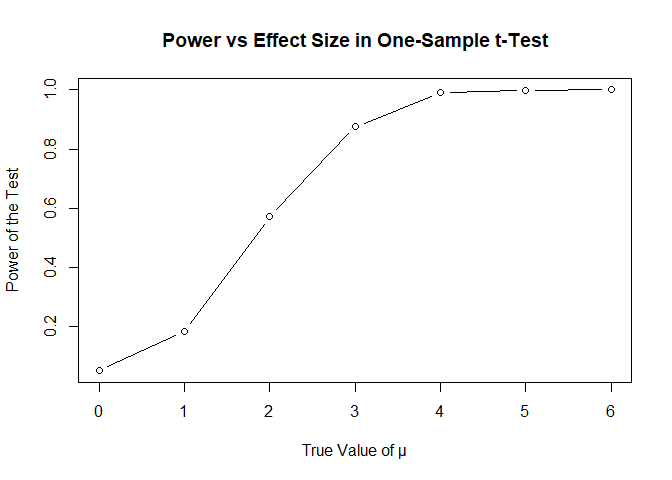
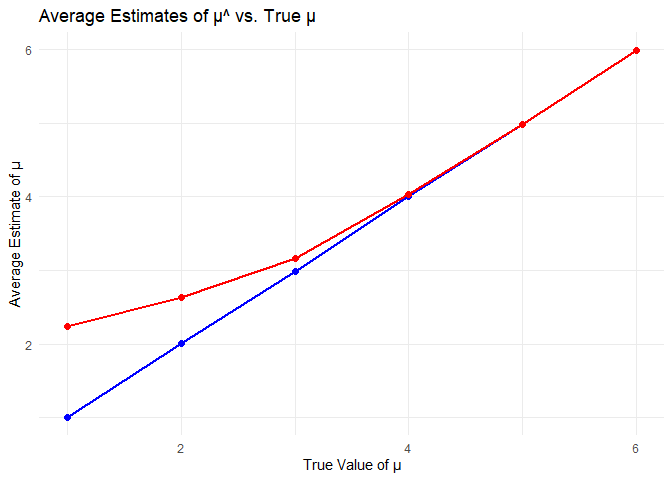
adding some descriptions

diff --git a/p8105_hw5_rl3401.md b/p8105_hw5_rl3401.md
@@ -19,6 +19,12 @@ library(tidyverse)
     ## ℹ Use the conflicted package (<http://conflicted.r-lib.org/>) to force all conflicts to become errors
 
 ``` r
+library(broom)
+```
+
+## Problem 1
+
+``` r
 homicides_df = read_csv("data/homicide-data.csv") 
 ```
 
@@ -115,6 +121,9 @@ homicide_summary|>
 | Tulsa, OK          |             583 |                193 |
 | Washington, DC     |            1345 |                589 |
 
+For the city of Baltimore, MD, use the prop.test function to estimate
+the proportion of homicides that are unsolved:
+
 ``` r
 baltimore_df =
   homicide_summary|>
@@ -134,6 +143,9 @@ baltimore_prop_test |>
 |----------:|----------:|----------:|
 | 0.6455607 | 0.6275625 | 0.6631599 |
 
+The estimated proportion is 0.646. The 95% confidence interval is (
+0.628 , 0.663 )
+
 ``` r
 library(tidyverse)
 perform_prop_test <- function(unsolved, total) {
@@ -142,7 +154,7 @@ perform_prop_test <- function(unsolved, total) {
   return(tidy_result)
 }
 
-# Step 2: Apply the function to each city
+
 all_cities_prop_test = homicide_summary |>
   mutate(prop_test_results = map2(unsolved_homicides, total_homicides, ~perform_prop_test(.x, .y))) |>
   unnest(prop_test_results) |>
@@ -213,6 +225,8 @@ all_cities_prop_test|>
 | Tulsa, OK          | 0.3310463 | 0.2932349 | 0.3711192 |
 | Washington, DC     | 0.4379182 | 0.4112495 | 0.4649455 |
 
+The plot of estimated proportion of unsolved Homicides by City
+
 ``` r
 ggplot(all_cities_prop_test, aes(x = reorder(city_state, estimate), y = estimate)) +
   geom_point() +
@@ -227,152 +241,18 @@ ggplot(all_cities_prop_test, aes(x = reorder(city_state, estimate), y = estimate
 
 ## Problem 2
 
+Start with a dataframe containing all file names;iterate over file names
+and read in data for each subject and saving the result as a new
+variable in the dataframe.
+
 ``` r
 full_df=
   tibble(path = list.files("data/hw5_data",full.names = TRUE))|>
   mutate(data = map(path, read_csv))
 ```
 
-    ## Rows: 1 Columns: 8
-    ## ── Column specification ────────────────────────────────────────────────────────
-    ## Delimiter: ","
-    ## dbl (8): week_1, week_2, week_3, week_4, week_5, week_6, week_7, week_8
-    ## 
-    ## ℹ Use `spec()` to retrieve the full column specification for this data.
-    ## ℹ Specify the column types or set `show_col_types = FALSE` to quiet this message.
-    ## Rows: 1 Columns: 8
-    ## ── Column specification ────────────────────────────────────────────────────────
-    ## Delimiter: ","
-    ## dbl (8): week_1, week_2, week_3, week_4, week_5, week_6, week_7, week_8
-    ## 
-    ## ℹ Use `spec()` to retrieve the full column specification for this data.
-    ## ℹ Specify the column types or set `show_col_types = FALSE` to quiet this message.
-    ## Rows: 1 Columns: 8
-    ## ── Column specification ────────────────────────────────────────────────────────
-    ## Delimiter: ","
-    ## dbl (8): week_1, week_2, week_3, week_4, week_5, week_6, week_7, week_8
-    ## 
-    ## ℹ Use `spec()` to retrieve the full column specification for this data.
-    ## ℹ Specify the column types or set `show_col_types = FALSE` to quiet this message.
-    ## Rows: 1 Columns: 8
-    ## ── Column specification ────────────────────────────────────────────────────────
-    ## Delimiter: ","
-    ## dbl (8): week_1, week_2, week_3, week_4, week_5, week_6, week_7, week_8
-    ## 
-    ## ℹ Use `spec()` to retrieve the full column specification for this data.
-    ## ℹ Specify the column types or set `show_col_types = FALSE` to quiet this message.
-    ## Rows: 1 Columns: 8
-    ## ── Column specification ────────────────────────────────────────────────────────
-    ## Delimiter: ","
-    ## dbl (8): week_1, week_2, week_3, week_4, week_5, week_6, week_7, week_8
-    ## 
-    ## ℹ Use `spec()` to retrieve the full column specification for this data.
-    ## ℹ Specify the column types or set `show_col_types = FALSE` to quiet this message.
-    ## Rows: 1 Columns: 8
-    ## ── Column specification ────────────────────────────────────────────────────────
-    ## Delimiter: ","
-    ## dbl (8): week_1, week_2, week_3, week_4, week_5, week_6, week_7, week_8
-    ## 
-    ## ℹ Use `spec()` to retrieve the full column specification for this data.
-    ## ℹ Specify the column types or set `show_col_types = FALSE` to quiet this message.
-    ## Rows: 1 Columns: 8
-    ## ── Column specification ────────────────────────────────────────────────────────
-    ## Delimiter: ","
-    ## dbl (8): week_1, week_2, week_3, week_4, week_5, week_6, week_7, week_8
-    ## 
-    ## ℹ Use `spec()` to retrieve the full column specification for this data.
-    ## ℹ Specify the column types or set `show_col_types = FALSE` to quiet this message.
-    ## Rows: 1 Columns: 8
-    ## ── Column specification ────────────────────────────────────────────────────────
-    ## Delimiter: ","
-    ## dbl (8): week_1, week_2, week_3, week_4, week_5, week_6, week_7, week_8
-    ## 
-    ## ℹ Use `spec()` to retrieve the full column specification for this data.
-    ## ℹ Specify the column types or set `show_col_types = FALSE` to quiet this message.
-    ## Rows: 1 Columns: 8
-    ## ── Column specification ────────────────────────────────────────────────────────
-    ## Delimiter: ","
-    ## dbl (8): week_1, week_2, week_3, week_4, week_5, week_6, week_7, week_8
-    ## 
-    ## ℹ Use `spec()` to retrieve the full column specification for this data.
-    ## ℹ Specify the column types or set `show_col_types = FALSE` to quiet this message.
-    ## Rows: 1 Columns: 8
-    ## ── Column specification ────────────────────────────────────────────────────────
-    ## Delimiter: ","
-    ## dbl (8): week_1, week_2, week_3, week_4, week_5, week_6, week_7, week_8
-    ## 
-    ## ℹ Use `spec()` to retrieve the full column specification for this data.
-    ## ℹ Specify the column types or set `show_col_types = FALSE` to quiet this message.
-    ## Rows: 1 Columns: 8
-    ## ── Column specification ────────────────────────────────────────────────────────
-    ## Delimiter: ","
-    ## dbl (8): week_1, week_2, week_3, week_4, week_5, week_6, week_7, week_8
-    ## 
-    ## ℹ Use `spec()` to retrieve the full column specification for this data.
-    ## ℹ Specify the column types or set `show_col_types = FALSE` to quiet this message.
-    ## Rows: 1 Columns: 8
-    ## ── Column specification ────────────────────────────────────────────────────────
-    ## Delimiter: ","
-    ## dbl (8): week_1, week_2, week_3, week_4, week_5, week_6, week_7, week_8
-    ## 
-    ## ℹ Use `spec()` to retrieve the full column specification for this data.
-    ## ℹ Specify the column types or set `show_col_types = FALSE` to quiet this message.
-    ## Rows: 1 Columns: 8
-    ## ── Column specification ────────────────────────────────────────────────────────
-    ## Delimiter: ","
-    ## dbl (8): week_1, week_2, week_3, week_4, week_5, week_6, week_7, week_8
-    ## 
-    ## ℹ Use `spec()` to retrieve the full column specification for this data.
-    ## ℹ Specify the column types or set `show_col_types = FALSE` to quiet this message.
-    ## Rows: 1 Columns: 8
-    ## ── Column specification ────────────────────────────────────────────────────────
-    ## Delimiter: ","
-    ## dbl (8): week_1, week_2, week_3, week_4, week_5, week_6, week_7, week_8
-    ## 
-    ## ℹ Use `spec()` to retrieve the full column specification for this data.
-    ## ℹ Specify the column types or set `show_col_types = FALSE` to quiet this message.
-    ## Rows: 1 Columns: 8
-    ## ── Column specification ────────────────────────────────────────────────────────
-    ## Delimiter: ","
-    ## dbl (8): week_1, week_2, week_3, week_4, week_5, week_6, week_7, week_8
-    ## 
-    ## ℹ Use `spec()` to retrieve the full column specification for this data.
-    ## ℹ Specify the column types or set `show_col_types = FALSE` to quiet this message.
-    ## Rows: 1 Columns: 8
-    ## ── Column specification ────────────────────────────────────────────────────────
-    ## Delimiter: ","
-    ## dbl (8): week_1, week_2, week_3, week_4, week_5, week_6, week_7, week_8
-    ## 
-    ## ℹ Use `spec()` to retrieve the full column specification for this data.
-    ## ℹ Specify the column types or set `show_col_types = FALSE` to quiet this message.
-    ## Rows: 1 Columns: 8
-    ## ── Column specification ────────────────────────────────────────────────────────
-    ## Delimiter: ","
-    ## dbl (8): week_1, week_2, week_3, week_4, week_5, week_6, week_7, week_8
-    ## 
-    ## ℹ Use `spec()` to retrieve the full column specification for this data.
-    ## ℹ Specify the column types or set `show_col_types = FALSE` to quiet this message.
-    ## Rows: 1 Columns: 8
-    ## ── Column specification ────────────────────────────────────────────────────────
-    ## Delimiter: ","
-    ## dbl (8): week_1, week_2, week_3, week_4, week_5, week_6, week_7, week_8
-    ## 
-    ## ℹ Use `spec()` to retrieve the full column specification for this data.
-    ## ℹ Specify the column types or set `show_col_types = FALSE` to quiet this message.
-    ## Rows: 1 Columns: 8
-    ## ── Column specification ────────────────────────────────────────────────────────
-    ## Delimiter: ","
-    ## dbl (8): week_1, week_2, week_3, week_4, week_5, week_6, week_7, week_8
-    ## 
-    ## ℹ Use `spec()` to retrieve the full column specification for this data.
-    ## ℹ Specify the column types or set `show_col_types = FALSE` to quiet this message.
-    ## Rows: 1 Columns: 8
-    ## ── Column specification ────────────────────────────────────────────────────────
-    ## Delimiter: ","
-    ## dbl (8): week_1, week_2, week_3, week_4, week_5, week_6, week_7, week_8
-    ## 
-    ## ℹ Use `spec()` to retrieve the full column specification for this data.
-    ## ℹ Specify the column types or set `show_col_types = FALSE` to quiet this message.
+Create a tidy dataframe containing data from all participants, including
+the subject ID, arm, and observations over time:
 
 ``` r
 tidy_df = 
@@ -393,6 +273,8 @@ tidy_df =
     ## Warning: `cols` is now required when using `unnest()`.
     ## ℹ Please use `cols = c(data)`.
 
+The spaghetti plot showing observations on each subject over time
+
 ``` r
 ggplot(tidy_df, aes(x = week, y = outcome, group = subject_id,color=subject_id))+
   geom_line()+
@@ -406,65 +288,78 @@ ggplot(tidy_df, aes(x = week, y = outcome, group = subject_id,color=subject_id))
 
 ![](p8105_hw5_rl3401_files/figure-gfm/unnamed-chunk-9-1.png)<!-- -->
 
-## Problem 3
+Over the 8-week study, participants in the experimental group exhibited
+an increasing trend in outcomes, despite some fluctuations. In contrast,
+the control group did not show a similar trend, with their outcomes
+remaining relatively stable throughout the study period. \## Problem 3
 
 Set parameters:
 
 ``` r
+set.seed(123)
 n <- 30
 sigma <- 5
-mus <- 0:6
-num_simulations <- 5000
+mu_values <- 1:6
 alpha <- 0.05
+num_simulations <- 5000
 ```
 
-Create a dataframe to store results
+Create a dataframe to store results, perform t-test
 
 ``` r
-results <- data.frame(mu = numeric(), reject_null = logical(), mu_hat = numeric())
-```
-
-Perform t-test
-
-``` r
-for (mu in mus) {
-  for (i in 1:num_simulations) {
-    data <- rnorm(n, mu, sigma)
-    test <- t.test(data, mu = 0)
-    results <- rbind(results, data.frame(mu = mu, 
-                                         reject_null = test$p.value < alpha, 
-                                         mu_hat = mean(data)))
-  }
-}
+results = expand_grid(mu = mu_values, sim = 1:num_simulations) |>
+  mutate(
+    data = map2(mu, sim, ~rnorm(n, .x, sigma)),
+    t_test = map(data, ~t.test(.x, mu = 0)),
+    tidy_test = map(t_test, tidy),
+    mu_hat = map_dbl(tidy_test, ~.x$estimate),
+    p_value = map_dbl(tidy_test, ~.x$p.value),
+    reject_null = p_value < alpha
+  ) |>
+  select(mu, mu_hat, p_value, reject_null)
 ```
 
 Plot showing the power of the test
 
 ``` r
-ggplot(results, aes(x = mu, y = reject_null)) +
-  geom_point(stat = "summary", fun = mean) +
-  ylab("Power") +
-  xlab("True value of mu")
+results|>
+  group_by(mu) |>
+  summarize(power = mean(reject_null)) |>
+  ggplot(aes(x = mu, y = power)) +
+  geom_line() +
+  labs(title = "Power vs. True Value of μ", x = "True μ", y = "Power")
 ```
 
-![](p8105_hw5_rl3401_files/figure-gfm/unnamed-chunk-13-1.png)<!-- -->
+![](p8105_hw5_rl3401_files/figure-gfm/unnamed-chunk-12-1.png)<!-- -->
 Power increases as the effect size increases.
 
 Plot showing the average estimates of mu
 
 ``` r
 ggplot(results, aes(x = mu, y = mu_hat)) +
-  geom_point(stat = "summary", fun = mean, color = "blue") +
-  geom_point(data = subset(results, reject_null), aes(x = mu, y = mu_hat), stat = "summary", fun = mean, color = "red") +
-  ylab("Average estimate of mu") +
-  xlab("True value of mu")
+  geom_line(stat = "summary", fun = mean, color = "blue", size = 1) +
+  geom_point(stat = "summary", fun = mean, color = "blue", size = 2) +
+  geom_line(data = subset(results, reject_null), aes(x = mu, y = mu_hat), 
+            stat = "summary", fun = mean, color = "red", size = 1) +
+  geom_point(data = subset(results, reject_null), aes(x = mu, y = mu_hat), 
+             stat = "summary", fun = mean, color = "red", size = 2) +
+  ylab("Average Estimate of μ") +
+  xlab("True Value of μ") +
+  ggtitle("Average Estimates of μ^ vs. True μ") +
+  scale_color_identity(guide = 'legend', labels = c("All Tests", "Reject Null")) +
+  theme_minimal()
 ```
 
-![](p8105_hw5_rl3401_files/figure-gfm/unnamed-chunk-14-1.png)<!-- -->
+    ## Warning: Using `size` aesthetic for lines was deprecated in ggplot2 3.4.0.
+    ## ℹ Please use `linewidth` instead.
+    ## This warning is displayed once every 8 hours.
+    ## Call `lifecycle::last_lifecycle_warnings()` to see where this warning was
+    ## generated.
+
+![](p8105_hw5_rl3401_files/figure-gfm/unnamed-chunk-13-1.png)<!-- -->
 
 When the mean is modest, particularly below 4 in this scenario, the
 observed discrepancy between the sample average $\hat{\mu}$ in instances
 where the null hypothesis is rejected and the true mean becomes evident.
 This divergence can be attributed to the relatively minimal effect size
 coupled with a correspondingly lower statistical power of the test.
-\`\`\`
